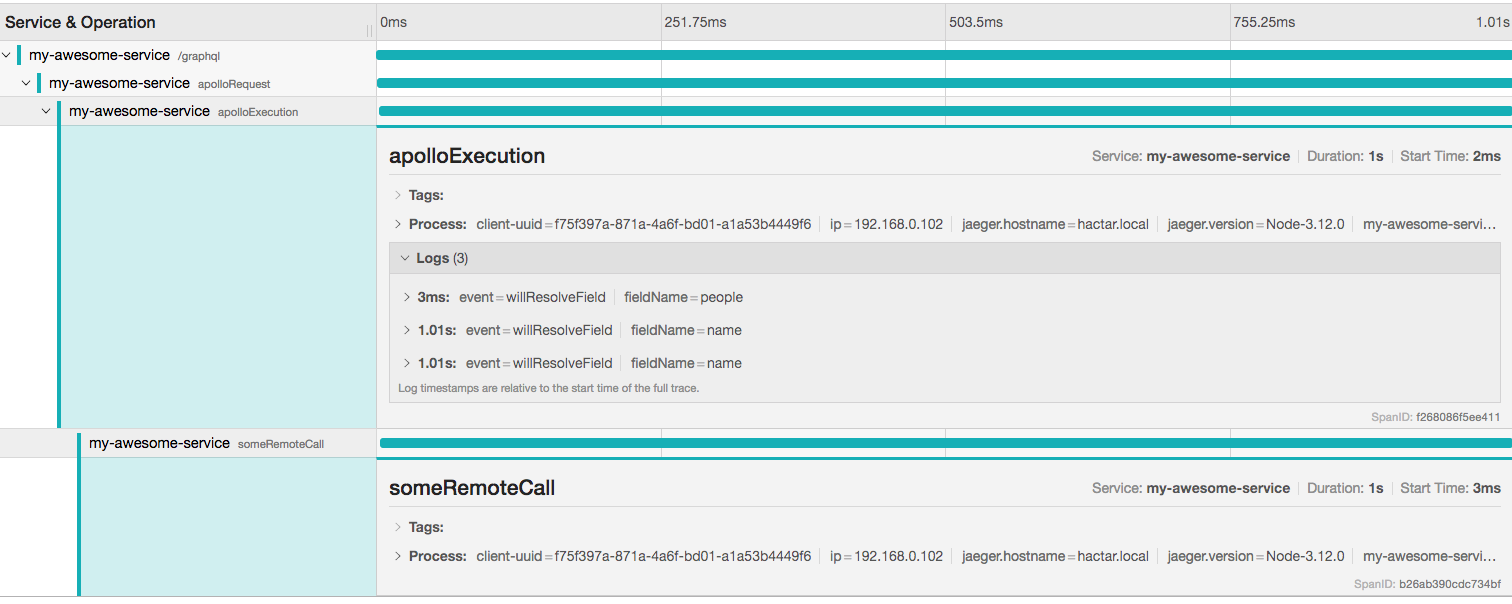
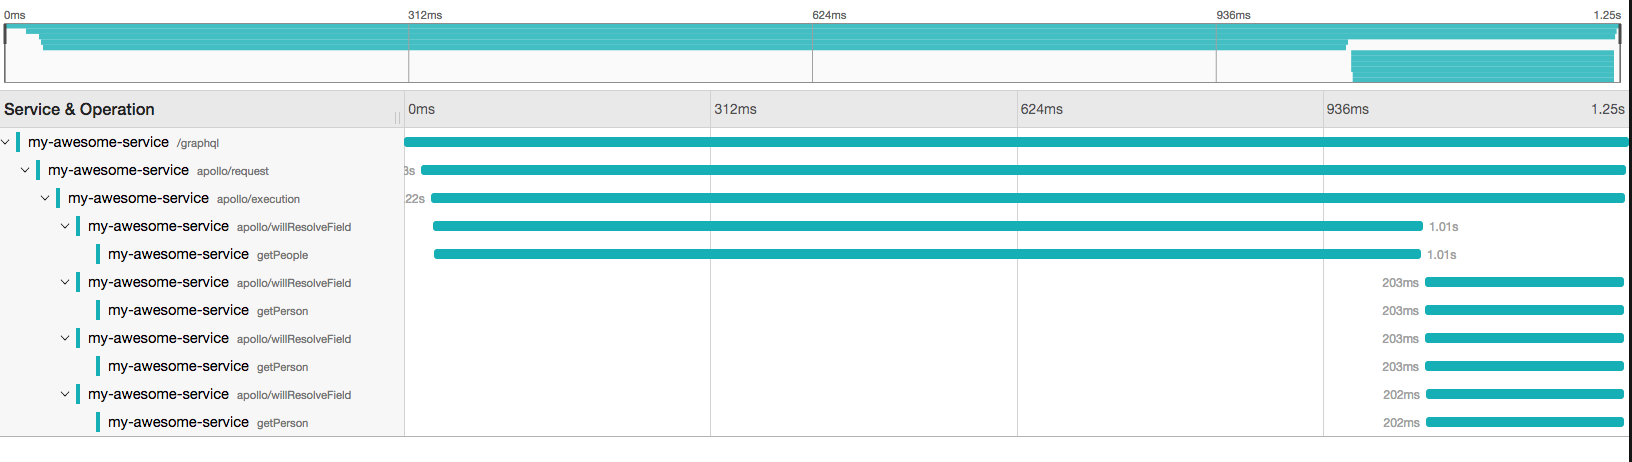
Fixed trace nesting

diff --git a/src/Context.ts b/src/Context.ts
@@ -63,14 +63,8 @@ export default class ApolloTracingContext implements ResolverTracingContext {
     let parentSpan: Span | undefined;
     let currentPath: ResponsePath | undefined = path;
 
-    while (currentPath != null) {
+    if (currentPath != null) {
       parentSpan = this.resolverSpans.get(buildPath(currentPath));
-
-      if (parentSpan != null) {
-        break;
-      }
-
-      currentPath = currentPath.prev;
     }
 
     return parentSpan || this.ensureExecuteSpan();

diff --git a/src/schema.ts b/src/schema.ts
@@ -20,7 +20,6 @@ const Person = new GraphQLObjectType({
           const user = await UserService.getUserById({span}, parent.id);
           // Used to force an error
           // return null;
-          // @ts-ignore
           return user.name;
         } finally {
           span.finish();

diff --git a/src/ApolloTracingExtension.ts b/src/ApolloTracingExtension.ts
@@ -40,6 +40,8 @@ export default class ApolloTracingExtension
         );
       }
 
+      // No longer convinced this is correct because parent traces
+      // may not be sampled reducing value
       if (errors.length > 0 || o.context.hasErrors) {
         ensureSampled(span);
       }
